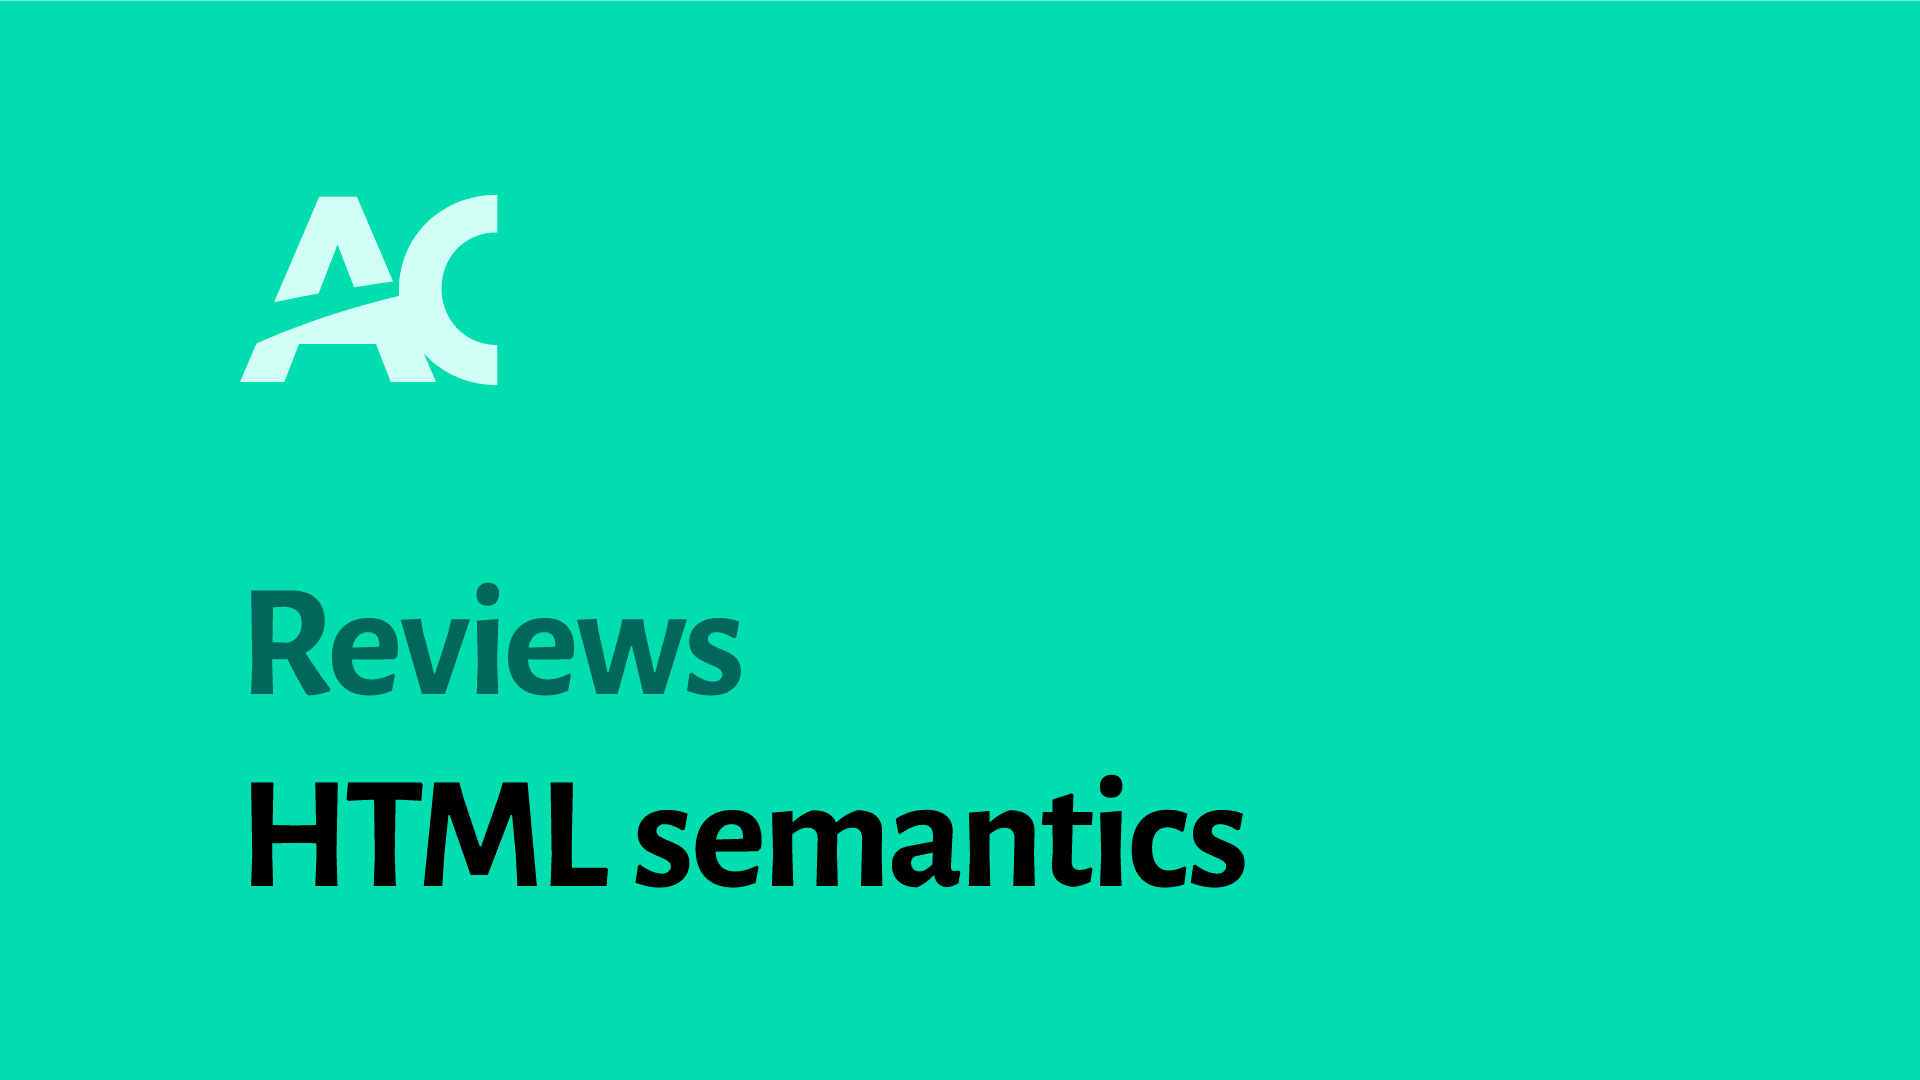
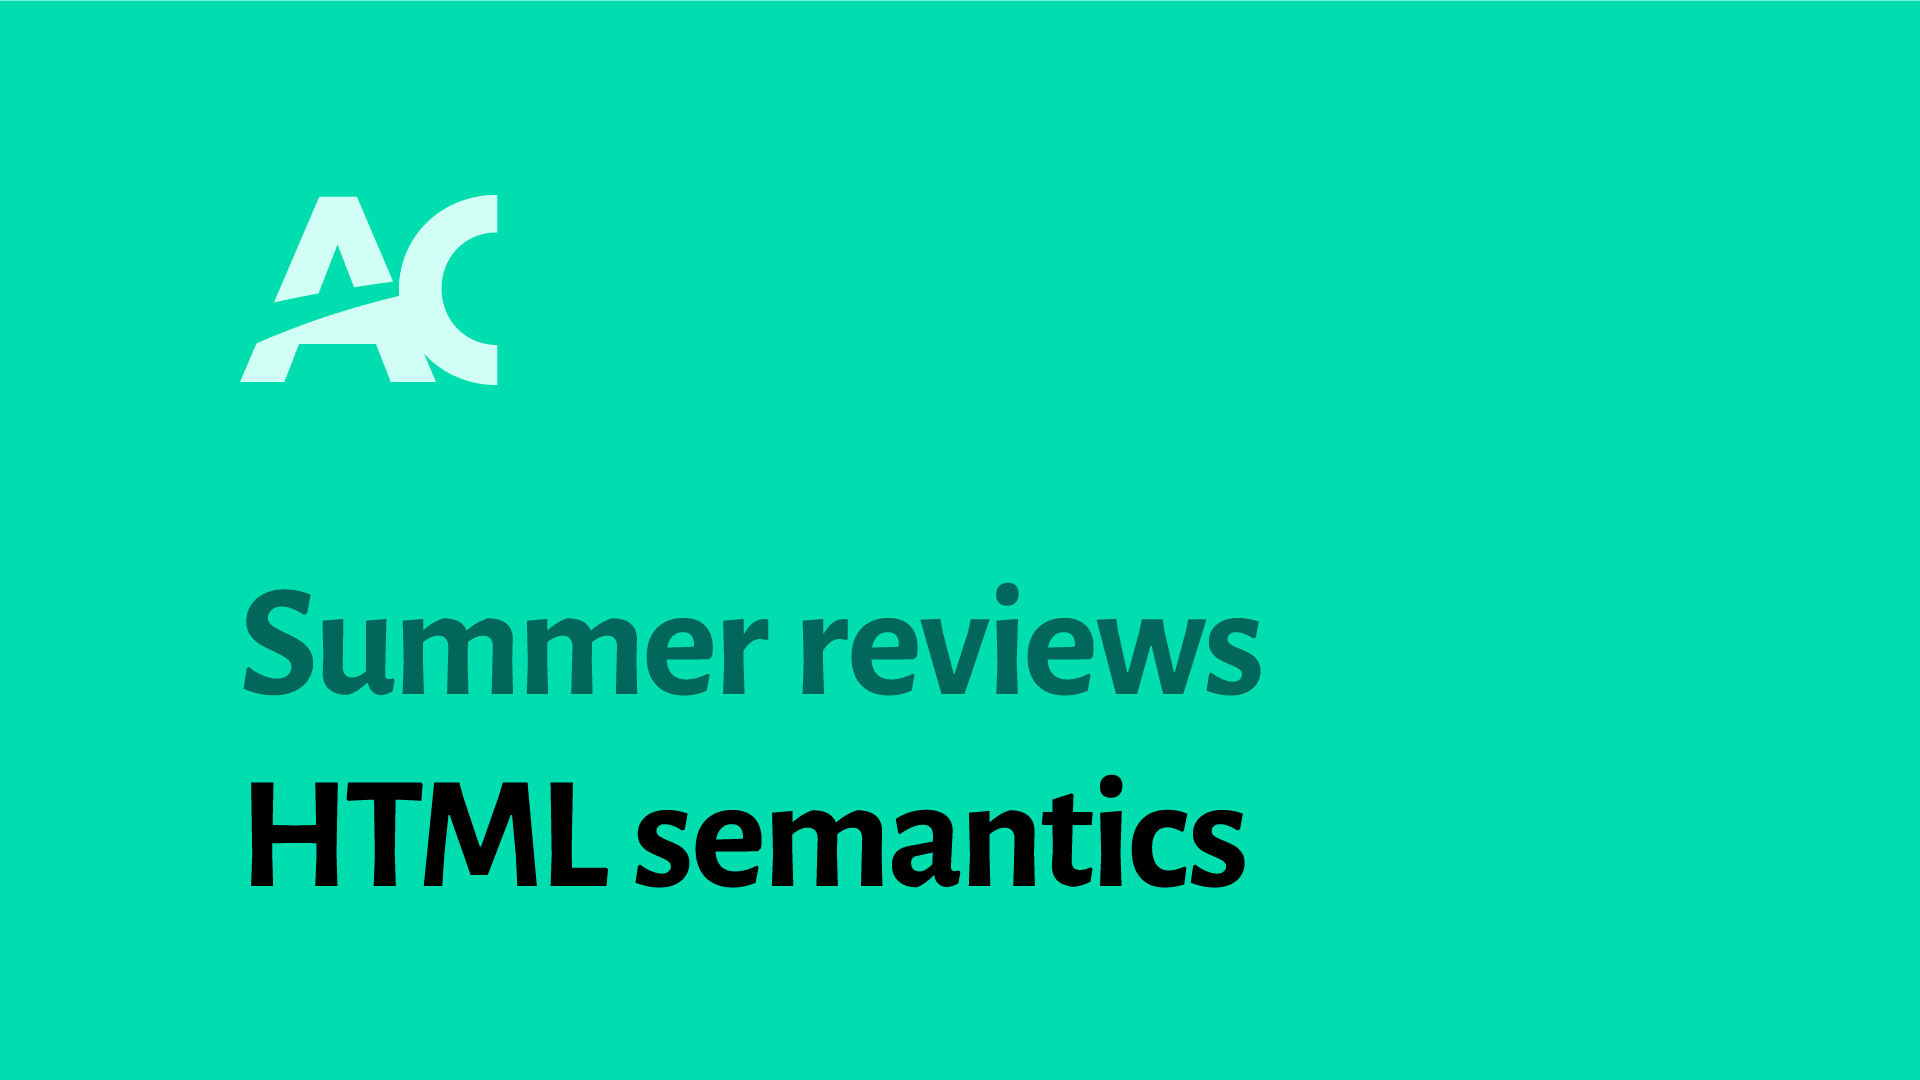
Update images.

Changed region(s): [[0.125, 0.5194, 0.6562, 0.6417]]

diff --git a/1-may-semantics.md b/1-may-semantics.md
@@ -2,7 +2,7 @@
 title: HTML semantics
 pre-content: HTML semantics reviews, quizzes, coding projects, and helpful tools.
 in-browser: 1-may-semantics.html
-banner: https://gallery.mailchimp.com/0b968f9b1f0f6e934c7ebbef6/images/374d2139-704c-46e8-992e-87ddbd4917f9.png
+banner: https://gallery.mailchimp.com/0b968f9b1f0f6e934c7ebbef6/images/db304039-f4b8-4811-9ec8-14c8e6658040.png
 intro: All of the content on the web revolves around the semantics we present in our HTML. They’re important to help people and robots understand our content whether they’re using their eyeballs, a screen reader, or a search ranking algorithm.
 reviews:
   github-pages: Hosting with GitHub Pages
